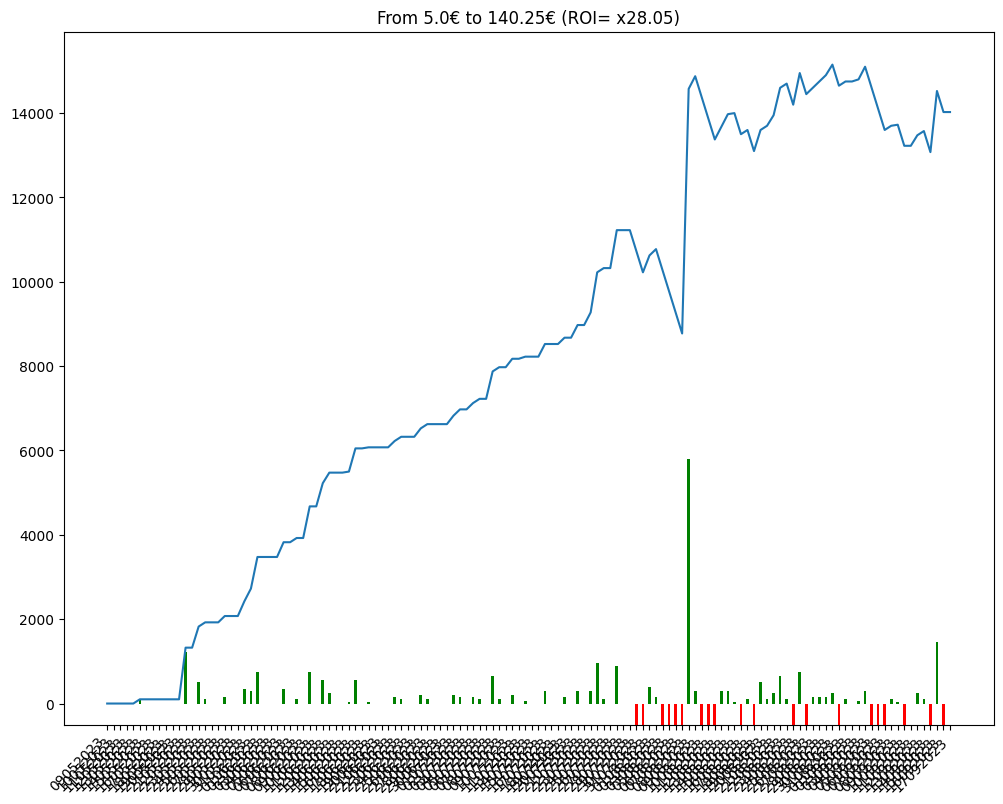
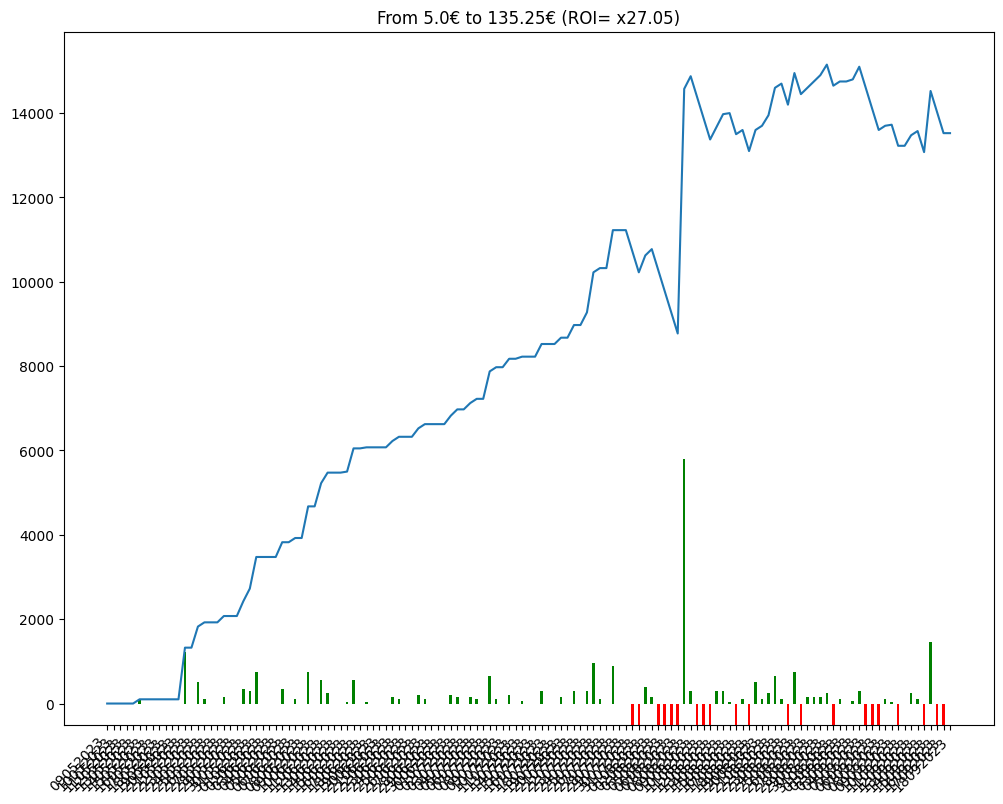
comment from python script

diff --git a/bethistory.html b/bethistory.html
@@ -86,7 +86,8 @@
             En observant la courbe 🤔, on peut avoir une idée visuelle de l'évolution des gains et ainsi évaluer le model utilisé 🧑🏫.
         </p>
         
-        <img src = "/candle.png" alt="candle chart"/><table><tr><td>Chevaux joués</td><td>Gains</td><td>URL Circuits</td></tr><tr><td>11 - EL FARAS</td><td>0</td><td><a href=https://www.pmu.fr/turf/17092023/r3/c4 target="_blank">https://www.pmu.fr/turf/17092023/r3/c4</a></td></tr>
+        <img src = "/candle.png" alt="candle chart"/><table><tr><td>Chevaux joués</td><td>Gains</td><td>URL Circuits</td></tr><tr><td>3 - ZILLIPOM</td><td>0</td><td><a href=https://www.pmu.fr/turf/18092023/r1/c6 target="_blank">https://www.pmu.fr/turf/18092023/r1/c6</a></td></tr>
+<tr><td>11 - EL FARAS</td><td>-500</td><td><a href=https://www.pmu.fr/turf/17092023/r3/c4 target="_blank">https://www.pmu.fr/turf/17092023/r3/c4</a></td></tr>
 <tr><td>8 - TRAPECISTA</td><td>-500</td><td><a href=https://www.pmu.fr/turf/16092023/r7/c2 target="_blank">https://www.pmu.fr/turf/16092023/r7/c2</a></td></tr>
 <tr><td>1 - ZAYA DE LA PLATA</td><td>+1450</td><td><a href=https://www.pmu.fr/turf/15092023/r3/c4 target="_blank">https://www.pmu.fr/turf/15092023/r3/c4</a></td></tr>
 <tr><td>2 - STYLE D'EMIRS</td><td>-500</td><td><a href=https://www.pmu.fr/turf/14092023/r1/c6 target="_blank">https://www.pmu.fr/turf/14092023/r1/c6</a></td></tr>
